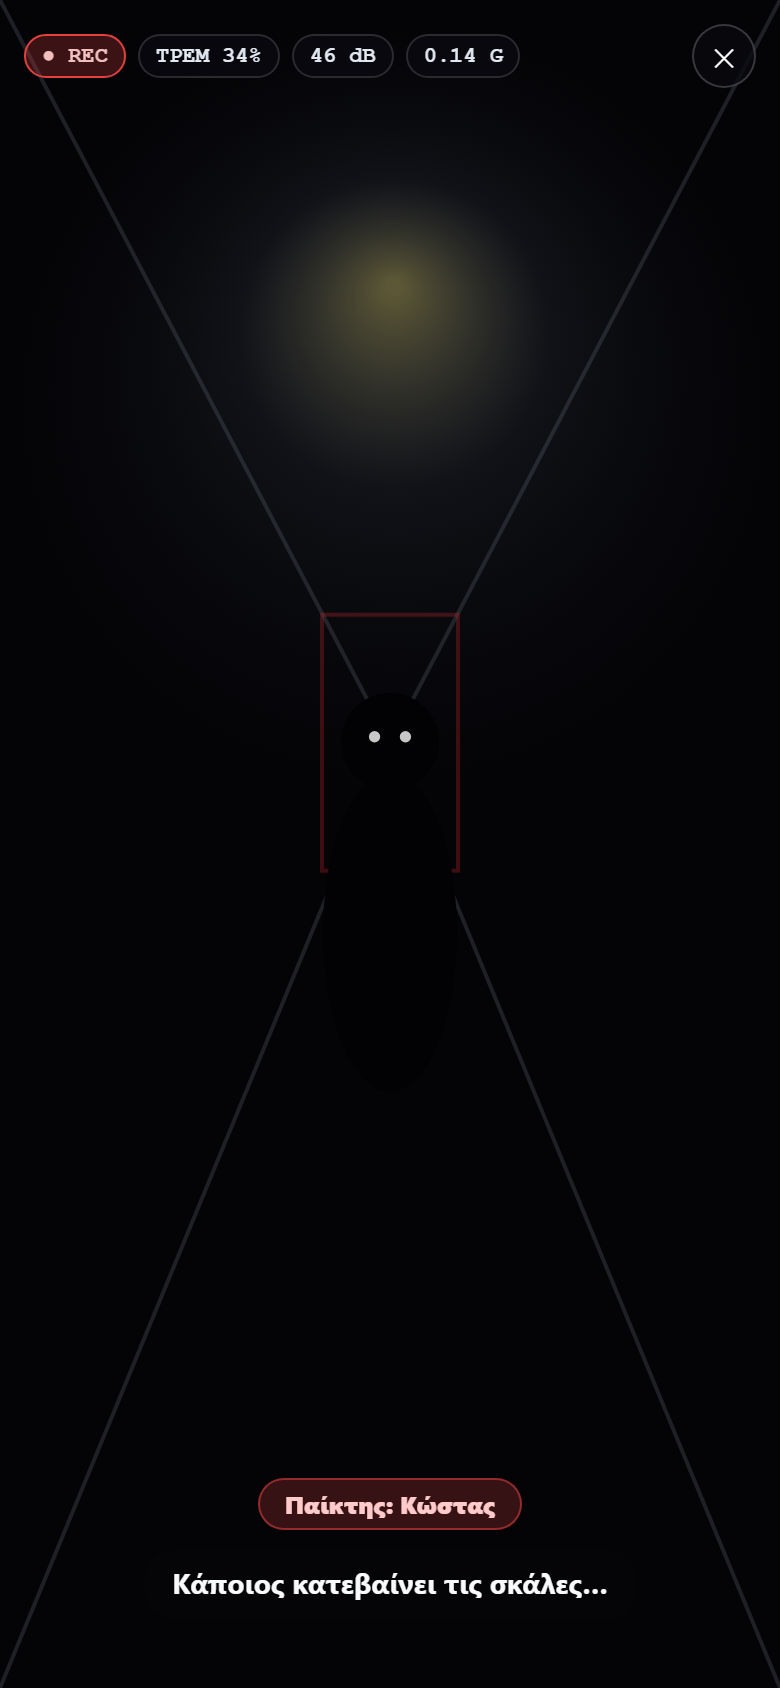
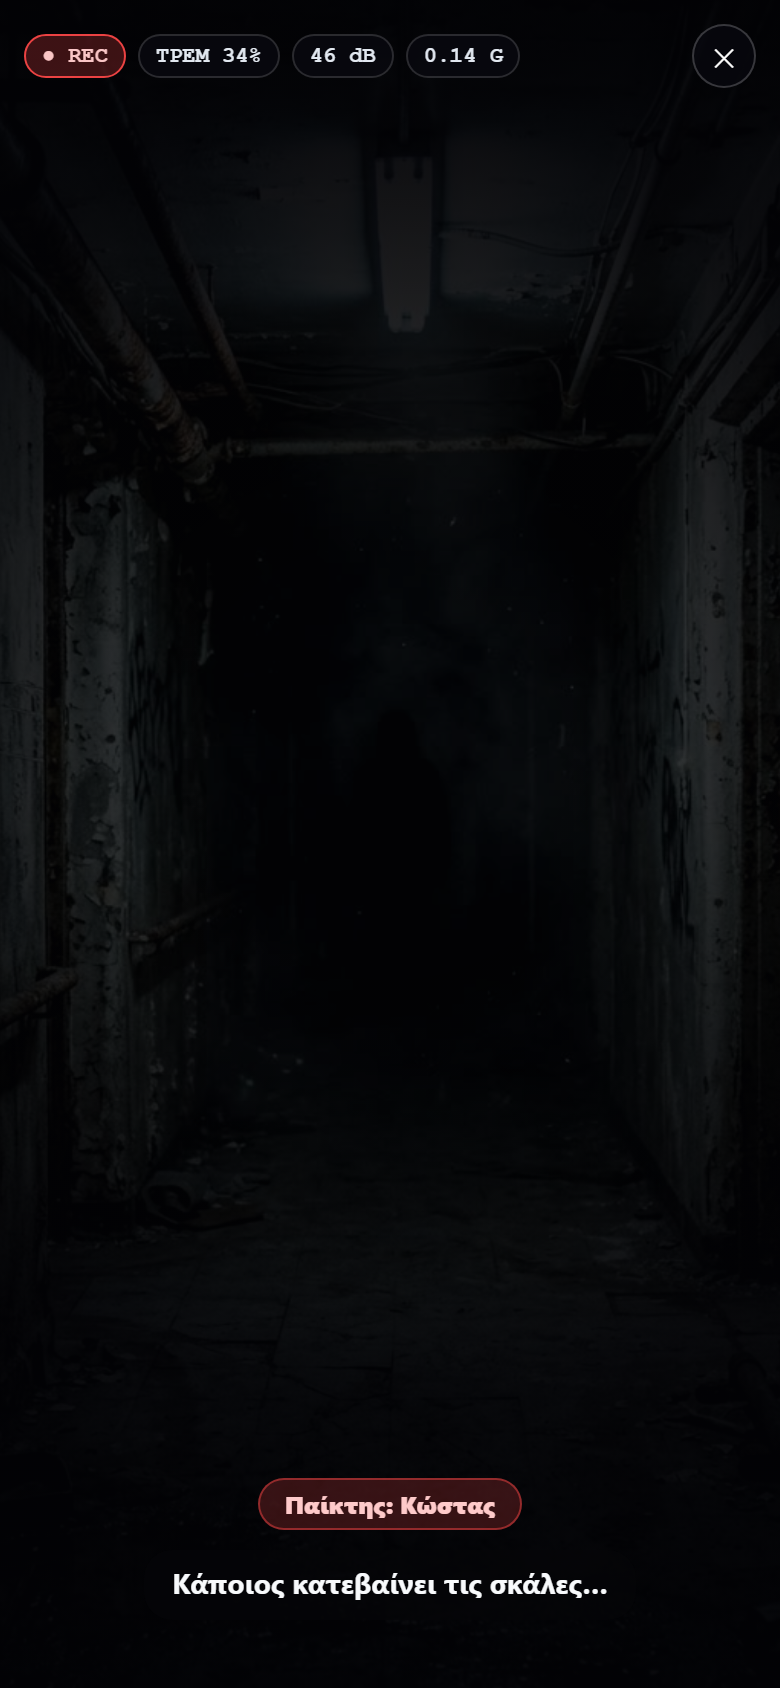
release(v1.1.0): photorealistic jumpscares, 4 screams and updated screenshots

diff --git a/README.md b/README.md
@@ -57,6 +57,7 @@
   3. **Αντίδραση Προσώπου (Camera):** Ανιχνεύει απότομη κίνηση & κρατάει **Peak Reaction Snapshot**.
   4. **Τρέμουλο Αναμονής:** Μετράει πόσο τρέμεις *πριν* σκάσει η σκηνή.
 * **🎭 4 Σενάρια (Μαζί με Κρυφή Φάρσα):** `Κόκκινο Φως`, `Βήματα στο Υπόγειο`, `Κλήση στις 03:00` & `Κρυφή Φάρσα: Τεστ Όρασης 20/20` (ξεκινάει σαν αθώο οφθαλμολογικό τεστ!).
+* **💀 4 Φωτορεαλιστικά Jumpscares & 4 Εναλλασσόμενες Πραγματικές Κραυγές:** 4 αληθοφανείς εικόνες τρόμου με VHS slice glitch, zoom lunge & strobe flash, συνδυασμένες με 4 δυνατές, απότομες κραυγές (`0 ms` επίθεση) που αλλάζουν σε κάθε γύρο.
 * **🎬 Split-Screen 9:16 Video & PNG Πιστοποιητικό:** Έτοιμο για TikTok / Reels / Stories.
 * **👥 Solo & Παρέα (2–6 άτομα):** Στέφει τον **👑 Πιο Ψύχραιμο** και την **🐔 Κότα της Παρέας**.
 * **🔄 Έλεγχος για Νέα Έκδοση:** Αυτόματος & χειροκίνητος έλεγχος στο `test-kotsion-release` για άμεση ενημέρωση APK.

diff --git a/CHANGELOG.md b/CHANGELOG.md
@@ -1,5 +1,10 @@
 # Changelog — Τεστ Κοτσιών (`test-kotsion`)
 
+## v1.1.0 (2026-11-20)
+* 💀 **4 Φωτορεαλιστικά Jumpscares & 2 Horror Backgrounds:** Αντικατάσταση της vector φιγούρας με 4 αληθοφανείς, ανατριχιαστικές εικόνες τρόμου (+ 2 ατμοσφαιρικά backgrounds για `Υπόγειο` & `Κλήση 03:00`), VHS slice glitch tears, strobe flash & zoom lunge.
+* 🔊 **4 Δυνατές, Απότομες Πραγματικές Κραυγές (0ms επίθεση):** 4 διαφορετικές κραυγές τρόμου με sub-bass & impact punch που εναλλάσσονται δυναμικά σε κάθε γύρο χωρίς επανάληψη.
+* 📦 Προ-φόρτωση όλων των εικόνων & κραυγών στο Service Worker cache (`test-kotsion-v2`) για μηδενική καθυστέρηση.
+
 ## v1.0.0 (2026-11-20)
 * 🎉 Αρχική κυκλοφορία Android APK (`test-kotsion.apk`) & Web PWA (`jemangr.app/test-kotsion/`).
 * 🎭 4 Σενάρια: `Κόκκινο Φως`, `Βήματα στο Υπόγειο`, `Κλήση στις 03:00` & `Κρυφή Φάρσα: Τεστ Όρασης 20/20`.
